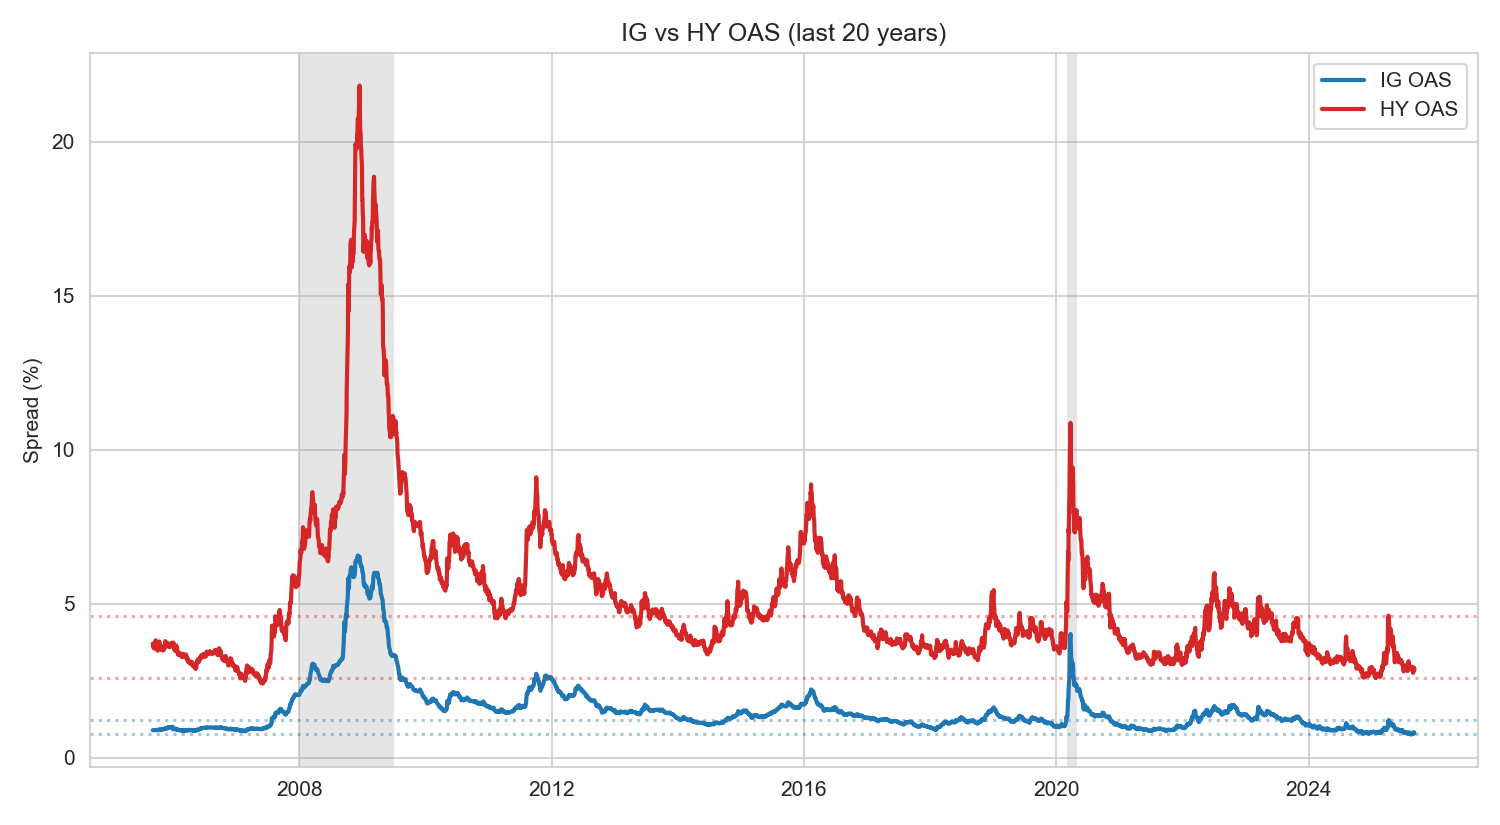
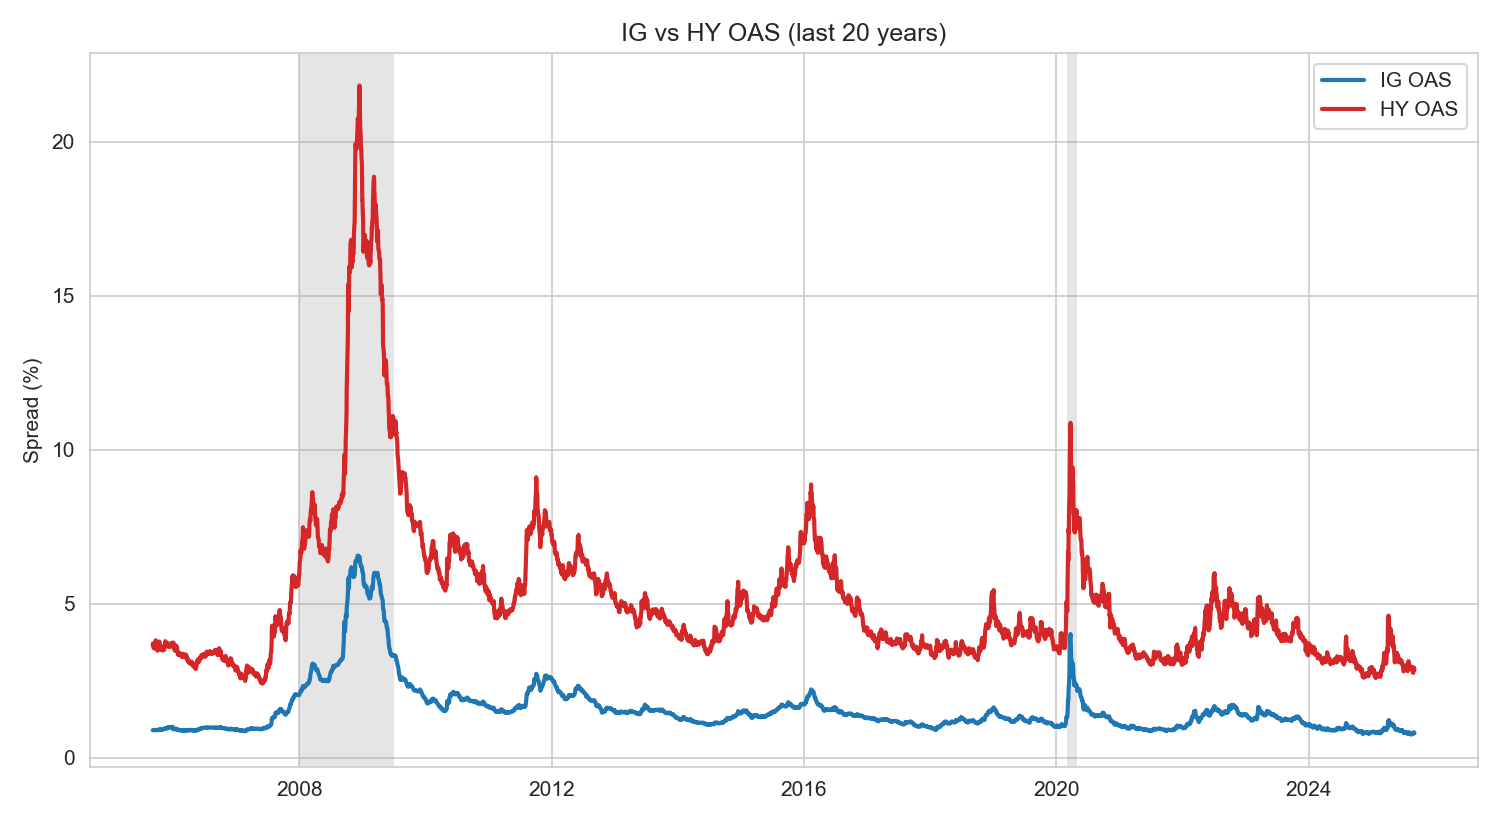
Remove dotted high/low lines from IG vs HY charts

diff --git a/charts.py b/charts.py
@@ -72,15 +72,7 @@ def plot_oas_window(df: pd.DataFrame, years: int, out_name: str, title: str) -> 
     for s, e in recession_spans(sub):
         plt.axvspan(s, e, color="gray", alpha=0.2, linewidth=0)
 
-    # 1y high/low markers against the same sub-window
-    ystart = end - pd.DateOffset(years=1)
-    sub1 = sub.loc[sub.index >= ystart]
-    for col, color in [("IG_OAS", "#1f77b4"), ("HY_OAS", "#d62728")]:
-        if col in sub1.columns:
-            ymin = sub1[col].min()
-            ymax = sub1[col].max()
-            plt.axhline(ymin, color=color, linestyle=":", alpha=0.4)
-            plt.axhline(ymax, color=color, linestyle=":", alpha=0.4)
+    # Removed dotted 1-year high/low markers for cleaner presentation
 
     plt.title(title)
     plt.ylabel("Spread (%)")
